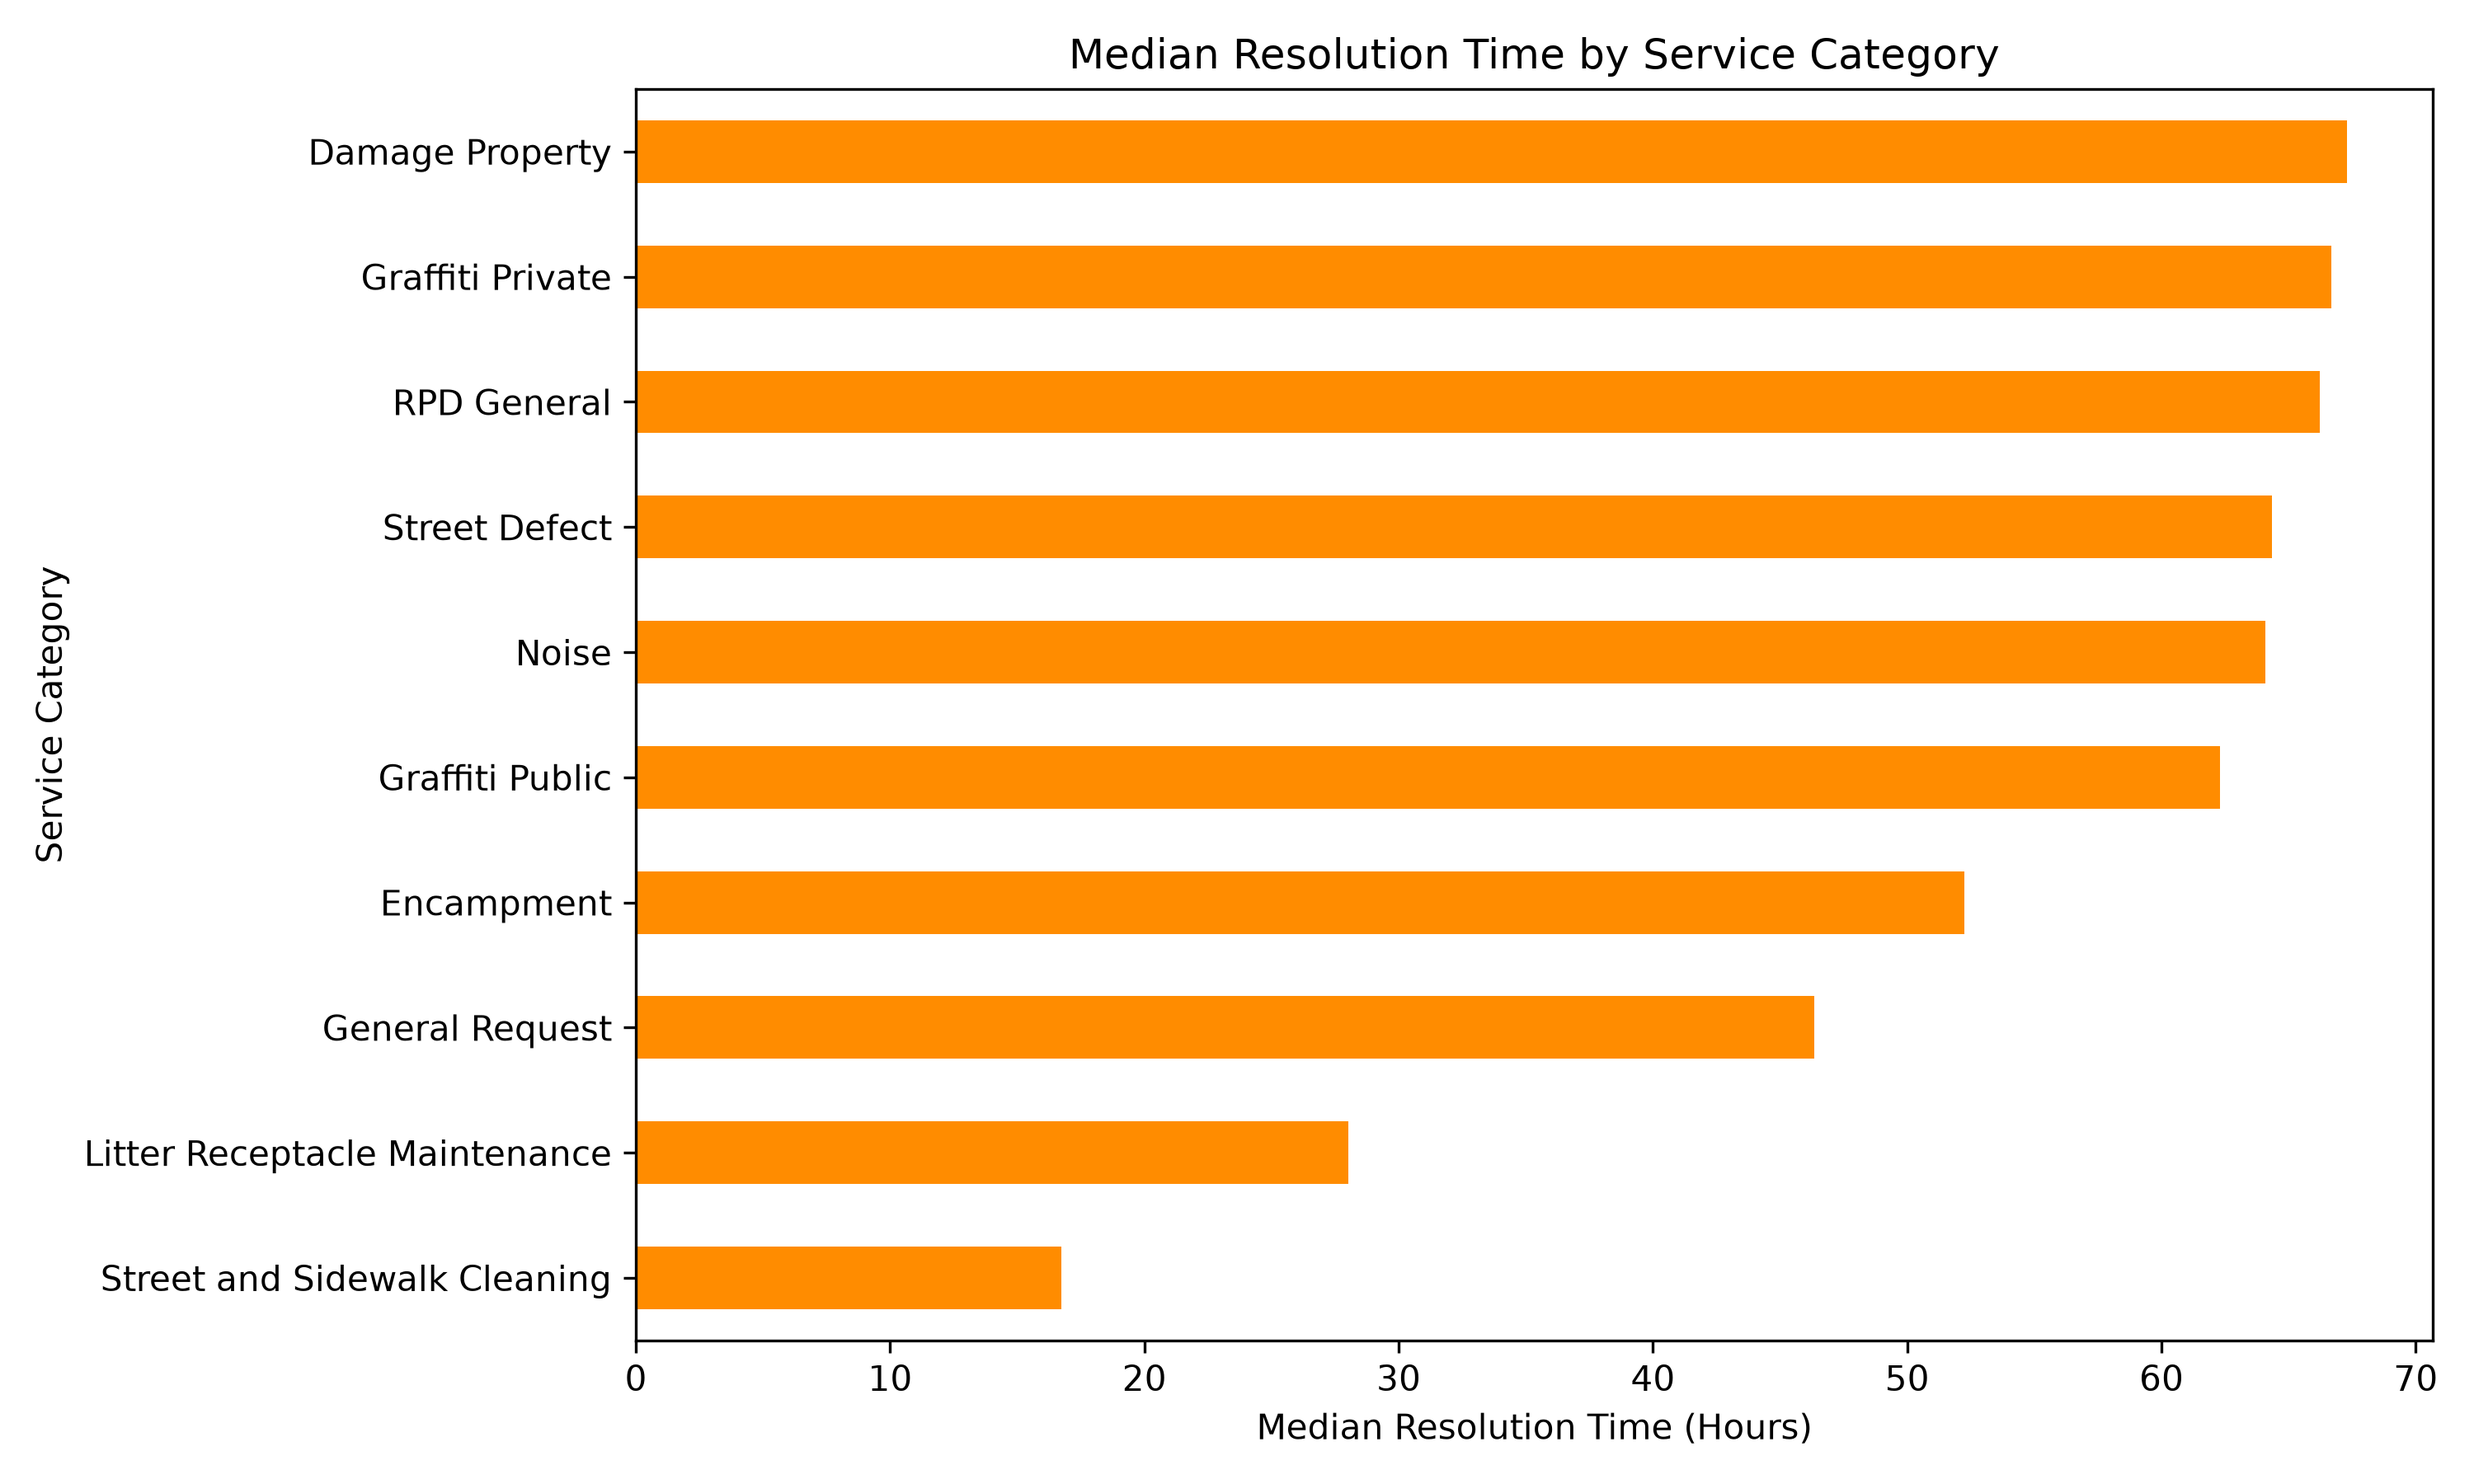
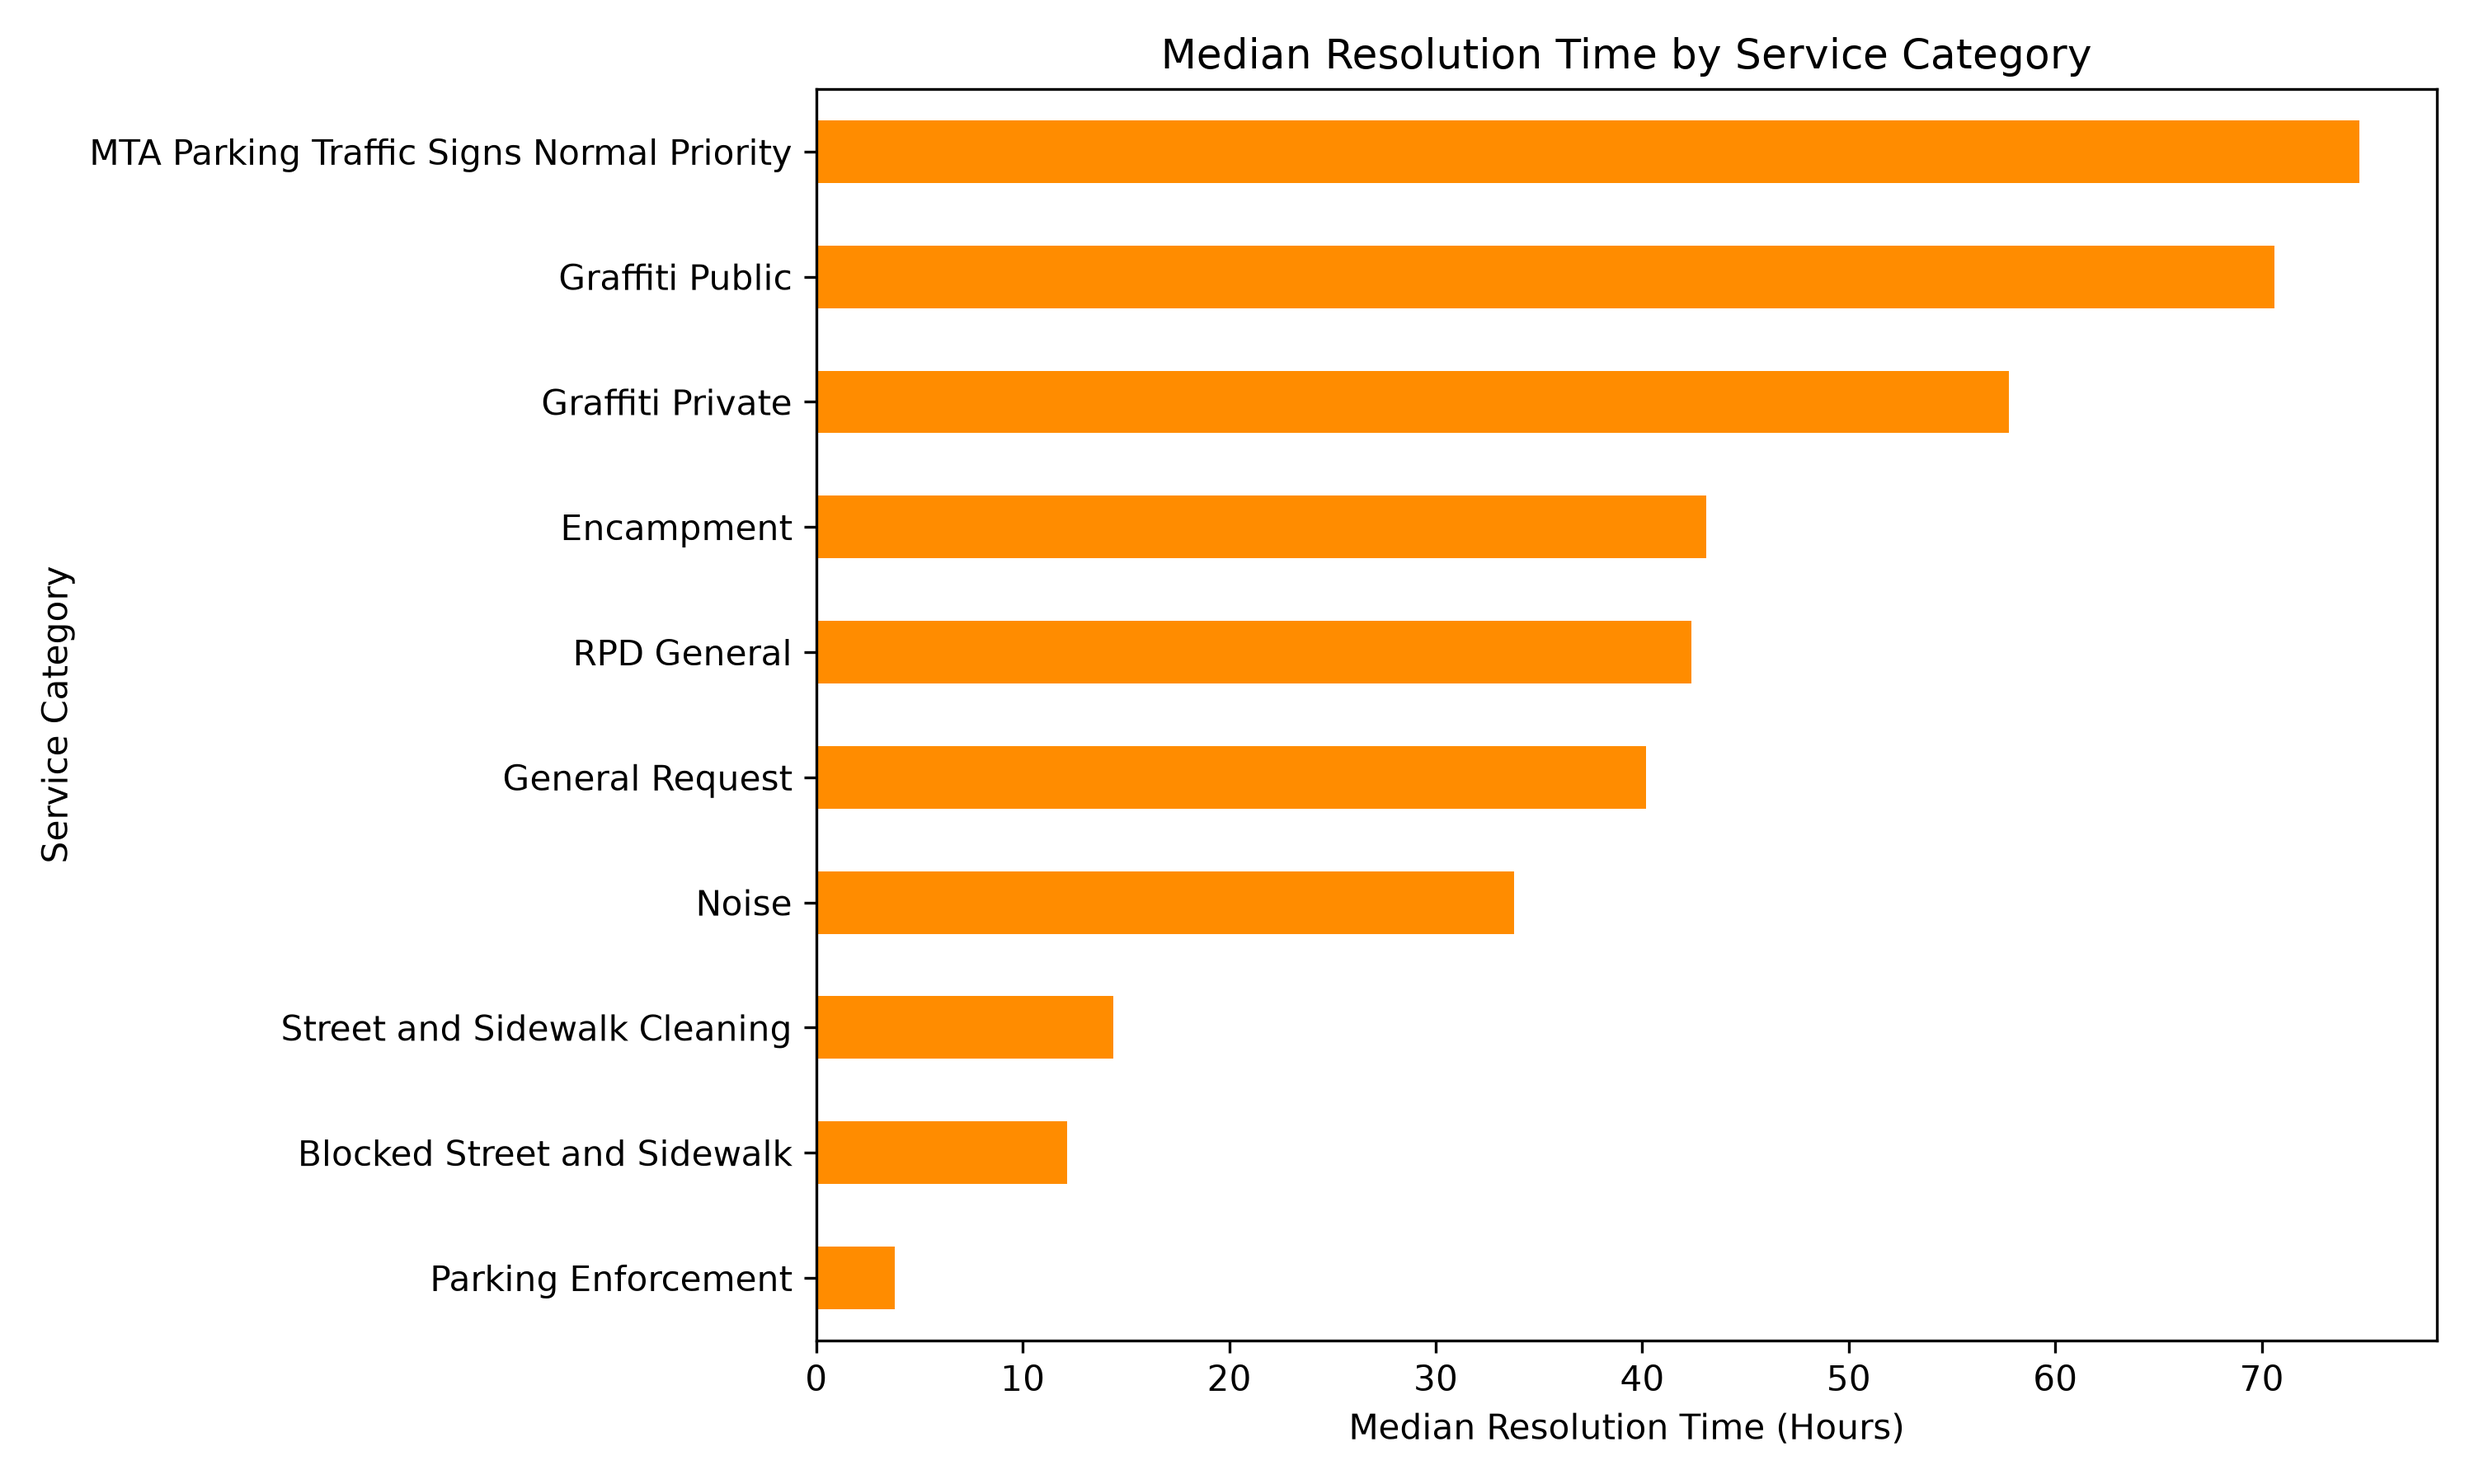
Add request volume over time visualization

diff --git a/src/load_data.py b/src/load_data.py
@@ -63,7 +63,66 @@ def load_sample(limit=1000, before_date=None):
 
     response.raise_for_status()
     return pd.DataFrame(response.json())
+def load_daily_request_counts(days=90):
+    token = os.environ.get("SOCRATA_APP_TOKEN")
 
+    if token is None:
+        raise RuntimeError(
+            "SOCRATA_APP_TOKEN has not been set in the terminal."
+        )
+
+    # Use complete days only; exclude today because it is unfinished
+    end_date = datetime.now(timezone.utc).date()
+    start_date = end_date - timedelta(days=days)
+
+    start = f"{start_date}T00:00:00"
+    end = f"{end_date}T00:00:00"
+
+    query = f"""
+        SELECT
+            date_trunc_ymd(requested_datetime) AS request_date,
+            count(*) AS request_count
+        WHERE requested_datetime >= '{start}'
+          AND requested_datetime < '{end}'
+        GROUP BY request_date
+        ORDER BY request_date
+    """
+
+    response = requests.post(
+        API_URL,
+        headers={"X-App-Token": token},
+        json={
+            "query": query,
+            "page": {
+                "pageNumber": 1,
+                "pageSize": days + 1,
+            },
+            "includeSynthetic": False,
+        },
+        timeout=30,
+    )
+
+    response.raise_for_status()
+
+    daily_counts = pd.DataFrame(response.json())
+
+    daily_counts["request_date"] = pd.to_datetime(
+        daily_counts["request_date"]
+    )
+    daily_counts["request_date"] = pd.to_datetime(
+    daily_counts["request_date"]
+)
+
+    today = pd.Timestamp.now().normalize()
+
+    daily_counts = daily_counts[
+        daily_counts["request_date"] < today
+    ].copy()
+    daily_counts["request_count"] = pd.to_numeric(
+        daily_counts["request_count"]
+    )
+
+    return daily_counts
 def prepare_data(requests_df):
     """Clean dates and calculate resolution time."""
     cleaned = requests_df.copy()

diff --git a/src/visualize.py b/src/visualize.py
@@ -1,6 +1,10 @@
 from datetime import datetime, timedelta, timezone
 from pathlib import Path
-
+from load_data import (
+    load_sample,
+    prepare_data,
+    load_daily_request_counts,
+)
 import matplotlib.pyplot as plt
 
 from load_data import load_sample, prepare_data
@@ -83,6 +87,34 @@ def plot_requests_by_neighborhood(df):
         bbox_inches="tight",
     )
     plt.close()
+def plot_request_volume_over_time(daily_counts):
+    plt.figure(figsize=(12, 6))
+
+    plt.plot(
+        daily_counts["request_date"],
+        daily_counts["request_count"],
+        color="royalblue",
+        linewidth=2,
+    )
+
+    plt.title("Daily Volume of SF 311 Service Requests")
+    plt.xlabel("Request Date")
+    plt.ylabel("Number of Requests")
+    plt.grid(alpha=0.3)
+    plt.xticks(rotation=45)
+    plt.xlim(
+    daily_counts["request_date"].min(),
+    daily_counts["request_date"].max(),
+)
+    plt.tight_layout()
+
+    Path("output").mkdir(exist_ok=True)
+    plt.savefig(
+        "output/request_volume_over_time.png",
+        dpi=300,
+        bbox_inches="tight",
+    )
+    plt.close()
 def main():
     cutoff = (
     datetime.now(timezone.utc) - timedelta(days=30)
@@ -97,7 +129,10 @@ def main():
     plot_resolution_by_service(df)
 
     print("Saved output/top_service_categories.png")
-
+    daily_counts = load_daily_request_counts(days=90)
+    plot_request_volume_over_time(daily_counts)
+    print("Saved output/request_volume_over_time.png")
+    
 
 if __name__ == "__main__":
     main()

diff --git a/README.md b/README.md
@@ -83,3 +83,12 @@ For service-category resolution comparisons, I included only categories with at 
 #### Median Resolution Time by Service Category
 
 ![Median resolution time](output/median_resolution_by_service.png)
+#### Request Volume Over Time
+
+![Daily SF 311 request volume](output/request_volume_over_time.png)
+
+This visualization shows the daily number of SF 311 requests during the previous 90 complete days. The current day is excluded because its request count is incomplete.
+
+### Data Freshness
+
+The project retrieves data from the live SF Open Data API. Therefore, summaries and visualizations may change when the program is run at a different time. The analysis method remains consistent even as new requests are submitted and existing requests are closed.
